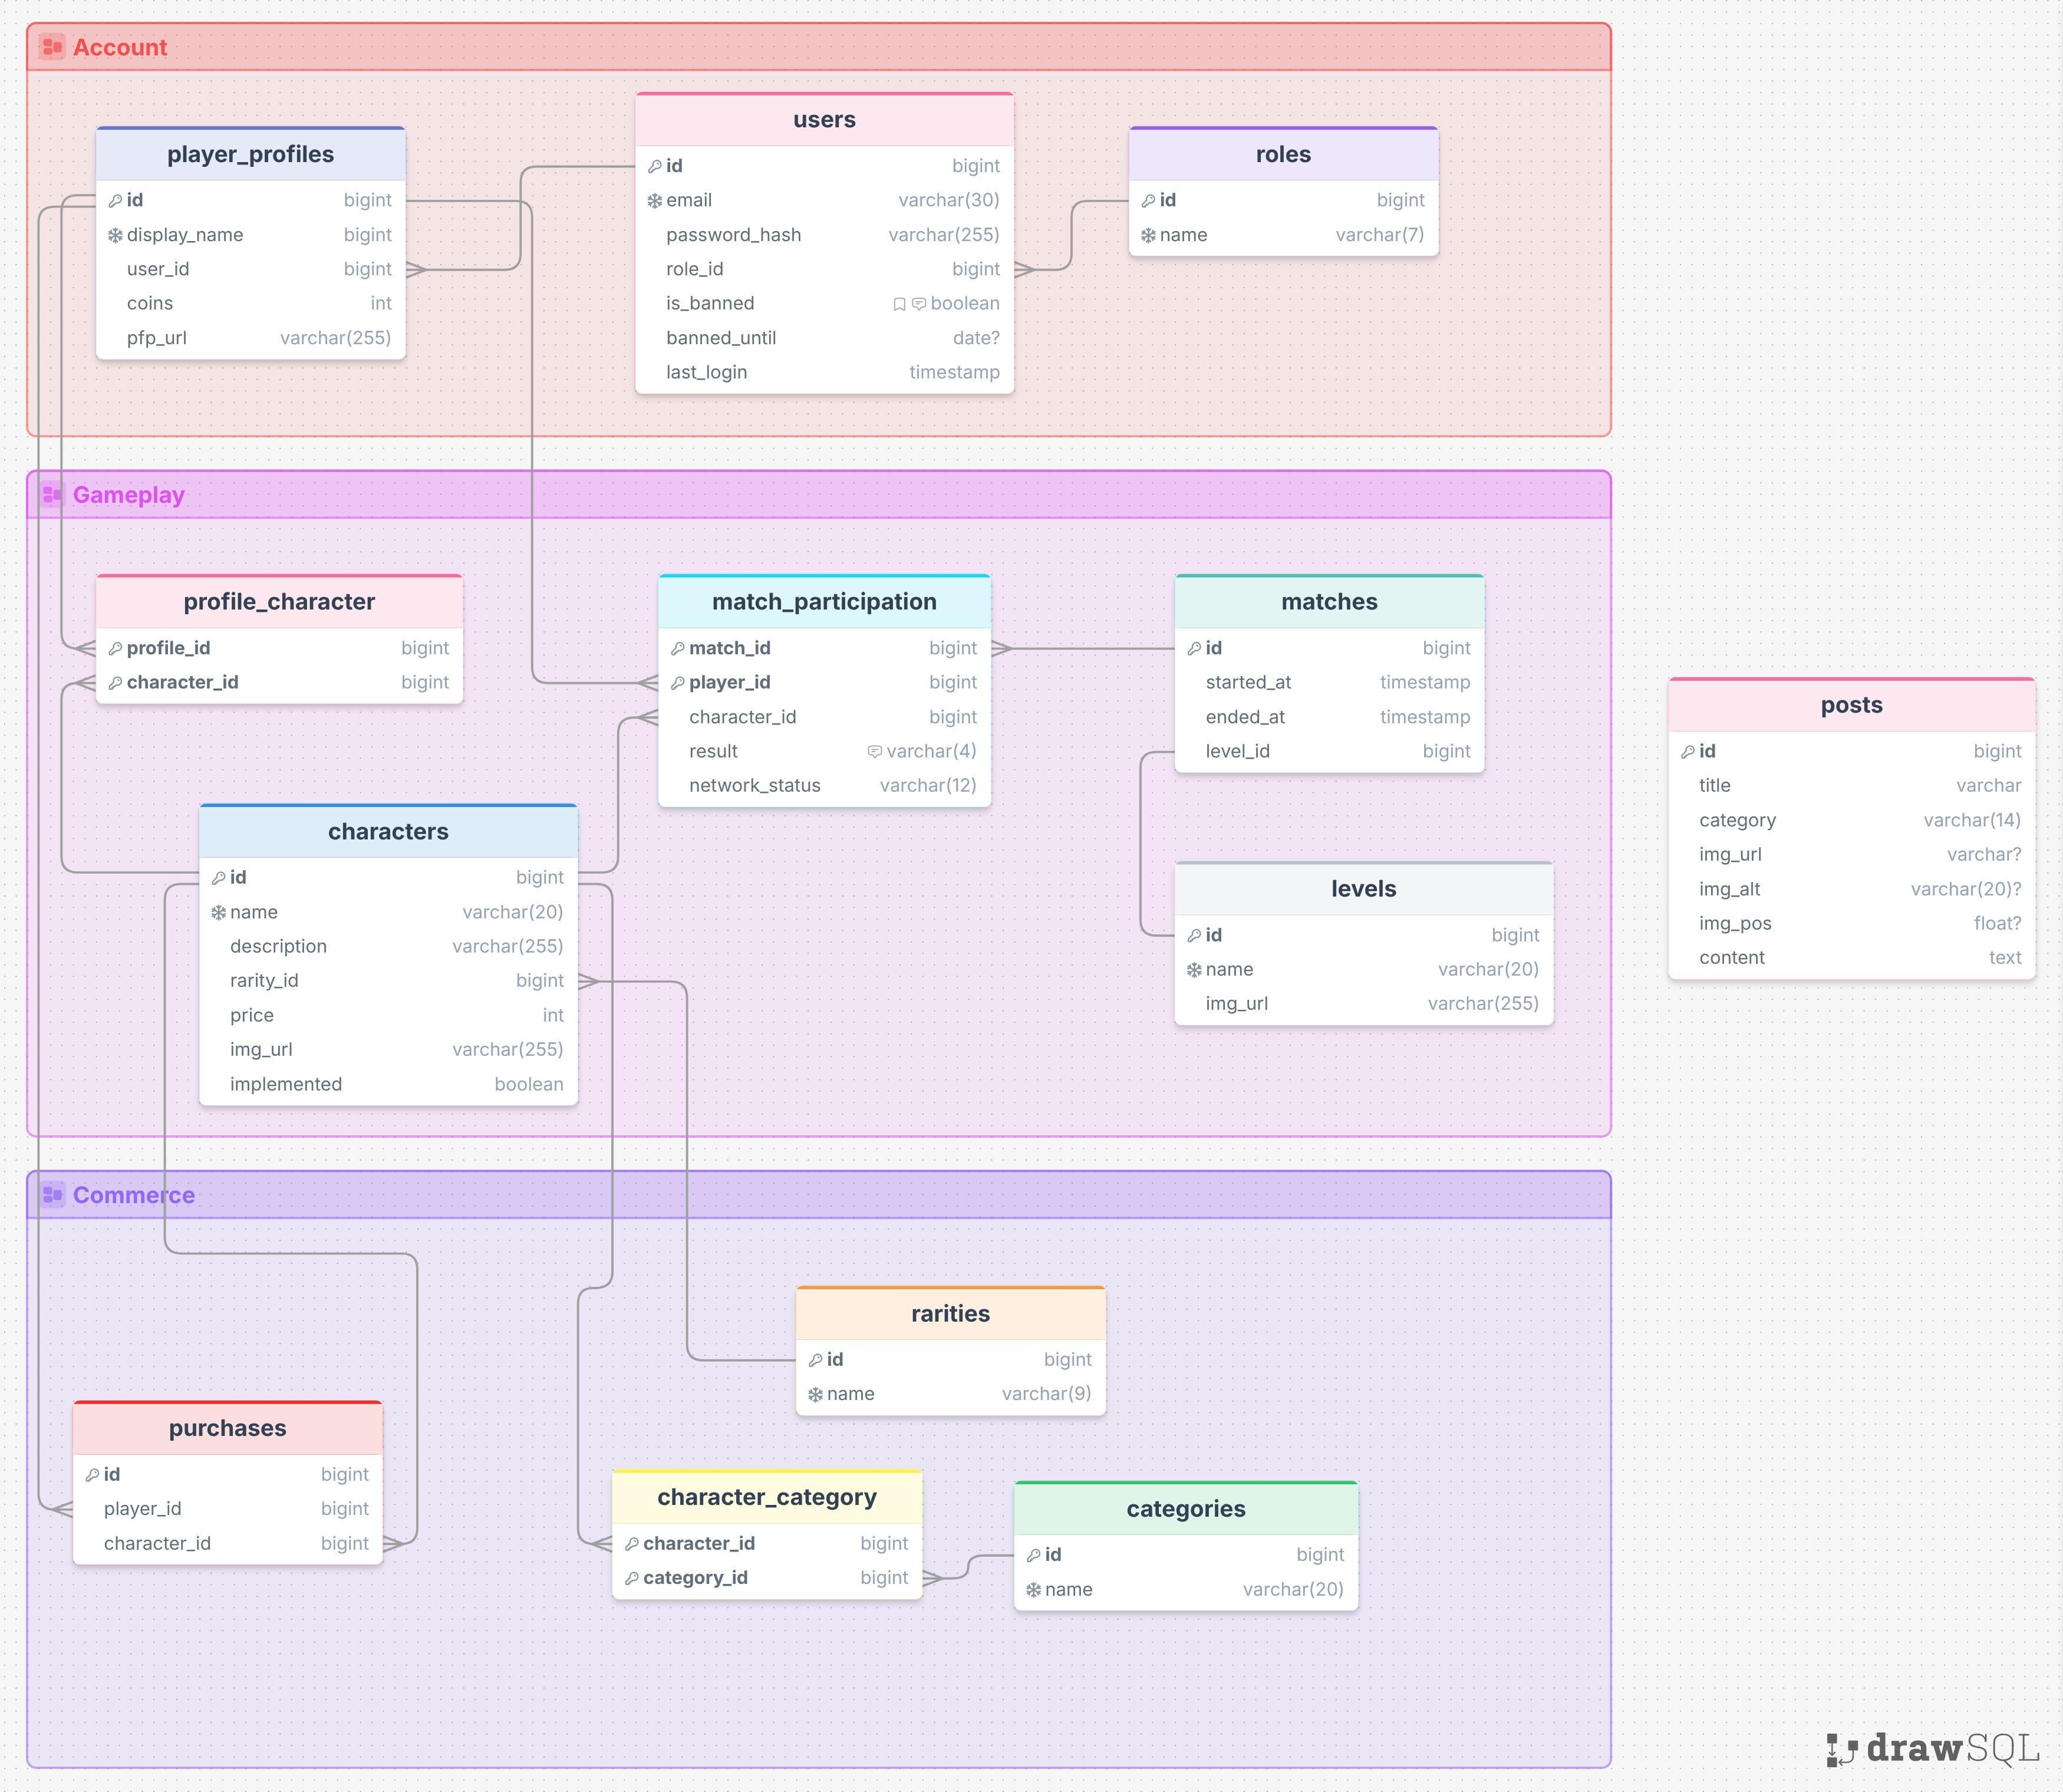
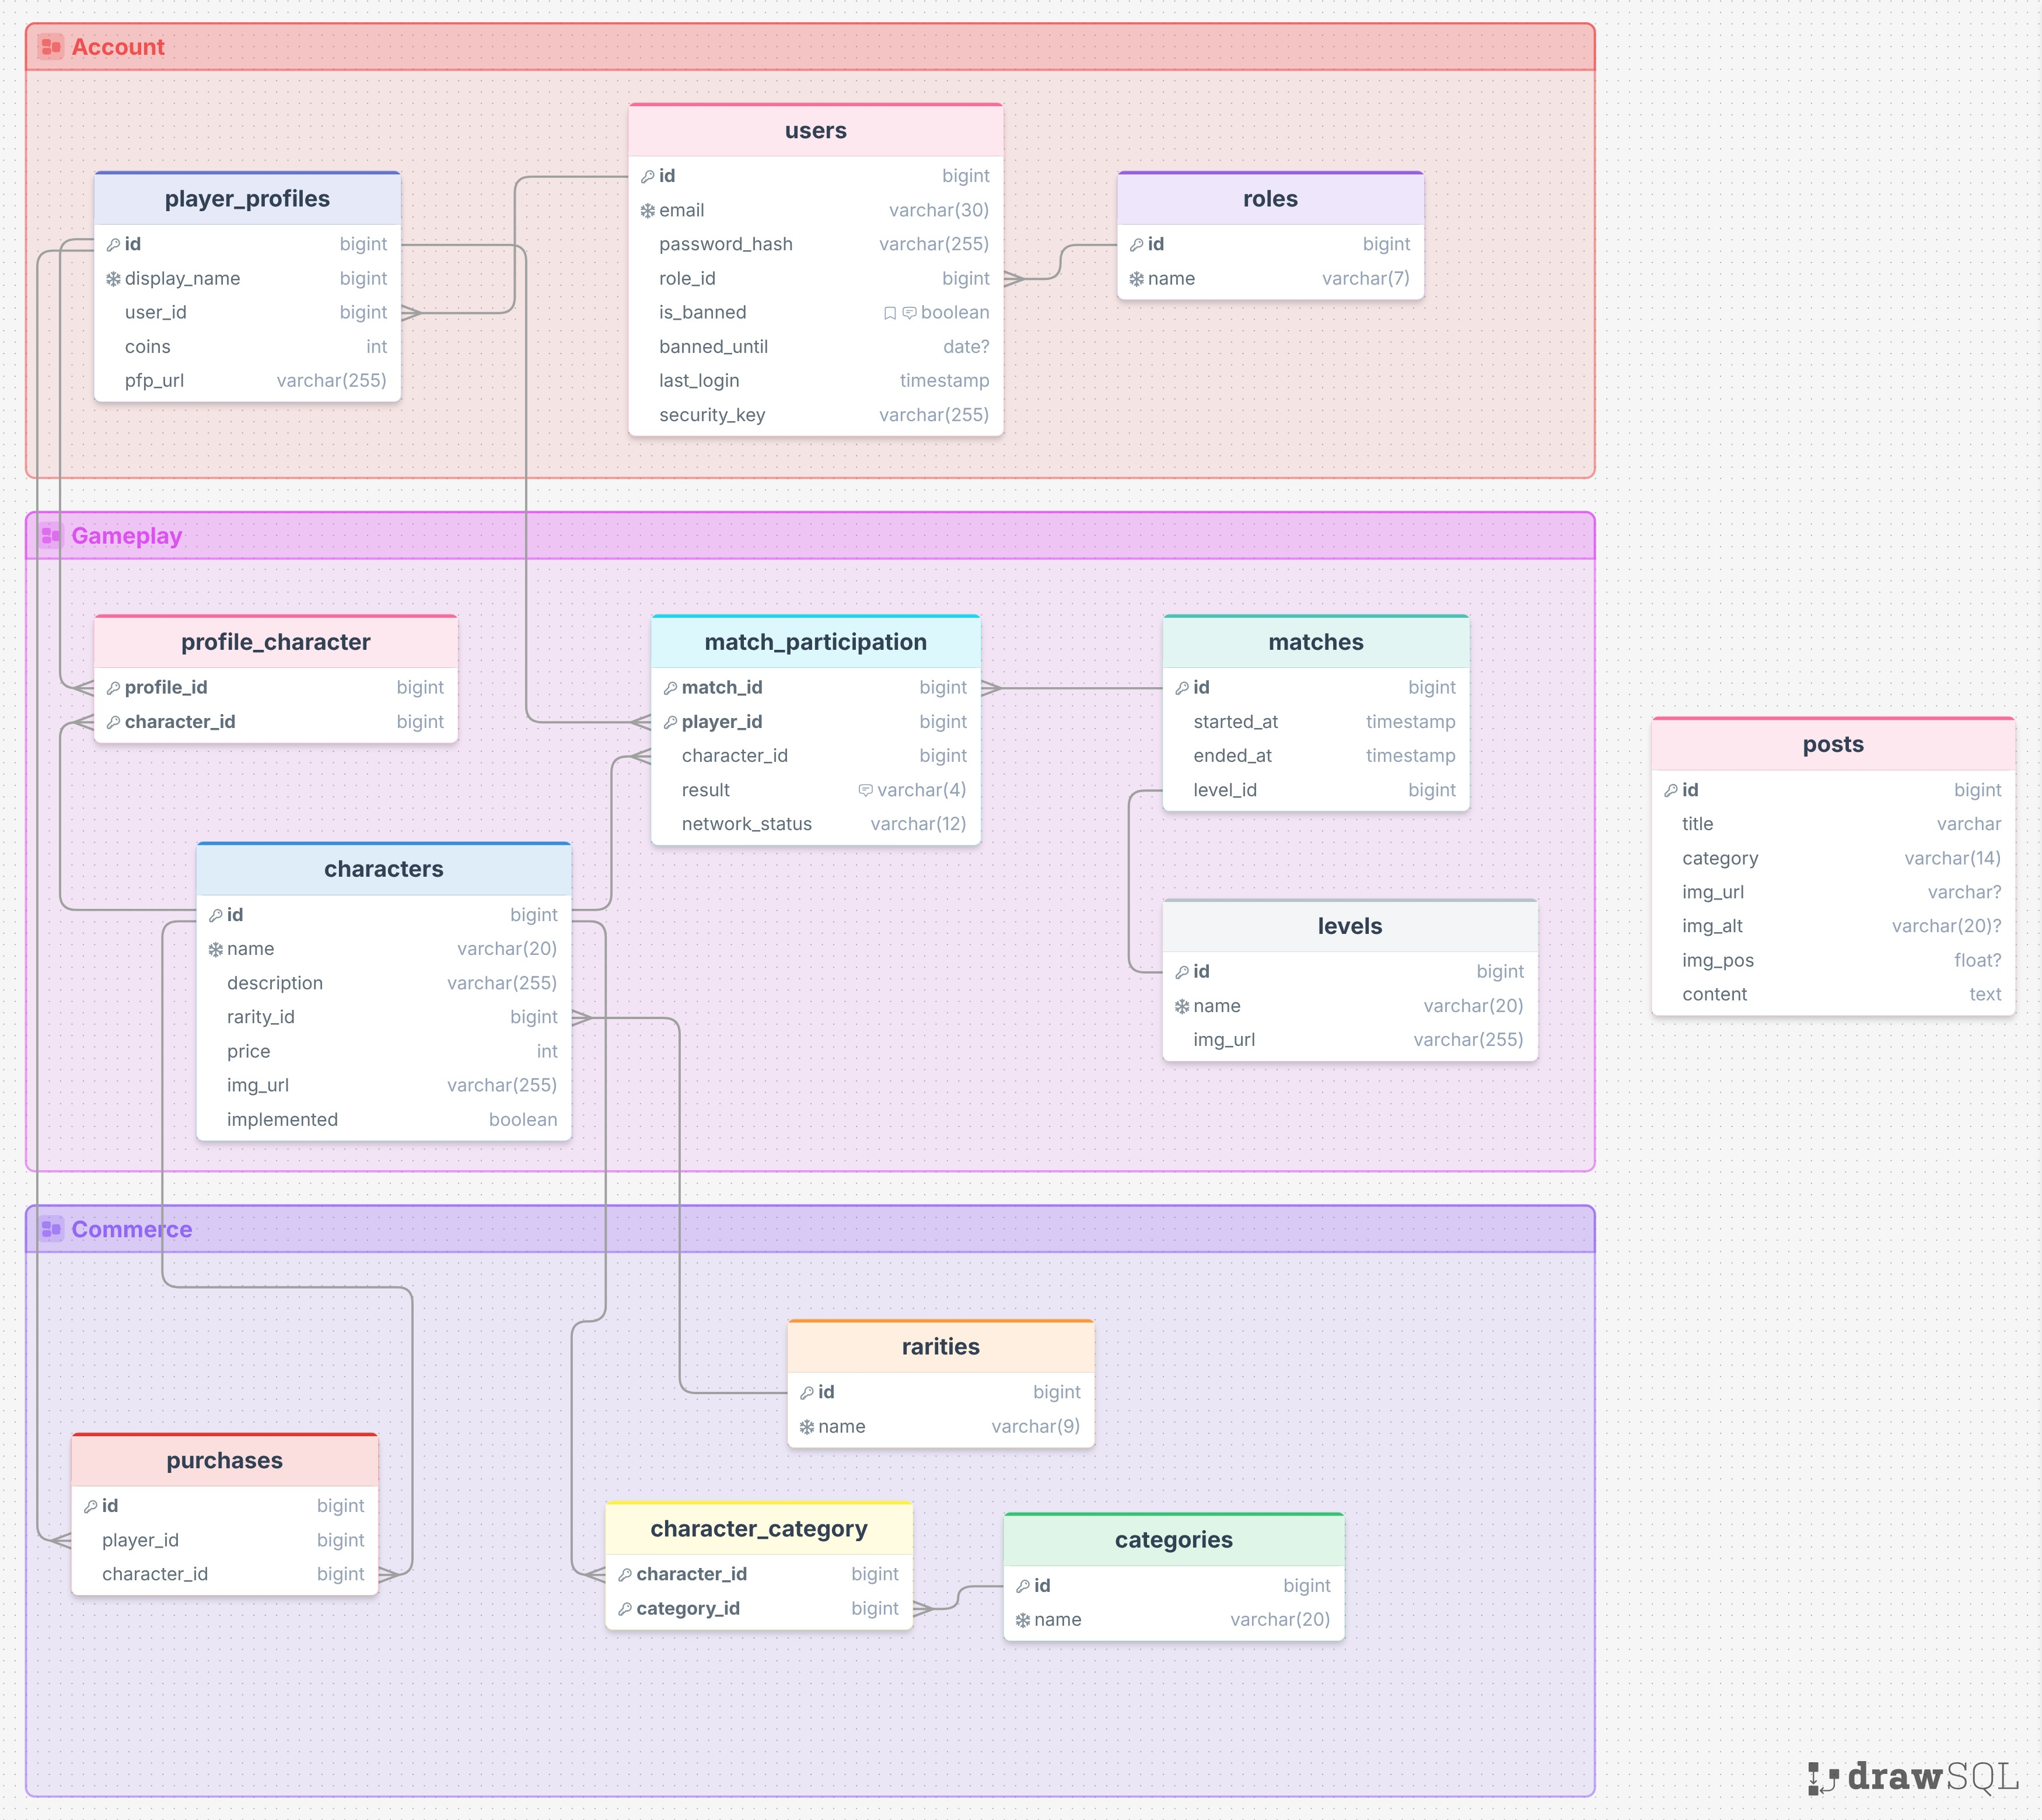
password reset implemented

diff --git a/internal/services/authn_service.go b/internal/services/authn_service.go
@@ -6,6 +6,7 @@ import (
 	"os"
 	"smaash-web/internal/models"
 	"smaash-web/internal/repository"
+	"smaash-web/internal/utils"
 	"time"
 
 	"github.com/golang-jwt/jwt/v5"
@@ -13,8 +14,9 @@ import (
 )
 
 type Authentication interface {
-	SignUp(context.Context, *models.User) error
+	SignUp(context.Context, *models.User) (*string, error)
 	Login(context.Context, *models.User) (*string, *models.User, error)
+	ChangePassword(context.Context, uint, string, string) error
 }
 
 type AuthenticationService struct {
@@ -26,21 +28,30 @@ func NewAuthenticationService(userRepo repository.UserRepository) Authentication
 }
 
 var (
-	ErrPasswordComparisonFailed = errors.New("Password incorrect")
-	ErrUserBanned               = errors.New("User is banned")
+	ErrPasswordIncorrect  = errors.New("Password incorrect")
+	ErrUserBanned         = errors.New("User is banned")
+	ErrSecurityKeyInvalid = errors.New("Provided security key is invalid")
 )
 
-func (a AuthenticationService) SignUp(c context.Context, u *models.User) error {
+func (a AuthenticationService) SignUp(c context.Context, u *models.User) (*string, error) {
 	hash, err := bcrypt.GenerateFromPassword([]byte(u.PasswordHash), 10)
 	if err != nil {
-		return err
+		return nil, err
 	}
+
+	rawKey := utils.GenerateSecurityKey()
+	hashedKey, err := bcrypt.GenerateFromPassword([]byte(rawKey), 10)
+	if err != nil {
+		return nil, err
+	}
+
 	u.PasswordHash = string(hash)
+	u.SecurityKey = string(hashedKey)
 	err = a.userRepo.Create(c, u)
 	if err != nil {
-		return err
+		return nil, err
 	}
-	return nil
+	return &rawKey, nil
 }
 
 func (a AuthenticationService) Login(c context.Context, u *models.User) (*string, *models.User, error) {
@@ -65,7 +76,7 @@ func (a AuthenticationService) Login(c context.Context, u *models.User) (*string
 
 	err = bcrypt.CompareHashAndPassword([]byte(user.PasswordHash), []byte(u.PasswordHash))
 	if err != nil {
-		return nil, nil, ErrPasswordComparisonFailed
+		return nil, nil, ErrPasswordIncorrect
 	}
 
 	token := jwt.NewWithClaims(jwt.SigningMethodHS256, jwt.MapClaims{
@@ -88,4 +99,27 @@ func (a AuthenticationService) Login(c context.Context, u *models.User) (*string
 	}
 
 	return &tokenString, &user, nil
+}
+
+func (a AuthenticationService) ChangePassword(c context.Context, userID uint, newPass string, securityKey string) error {
+	user, err := a.userRepo.ReadByID(c, userID)
+	if err != nil {
+		return err
+	}
+
+	if err := bcrypt.CompareHashAndPassword([]byte(user.SecurityKey), []byte(securityKey)); err != nil {
+		return ErrSecurityKeyInvalid
+	}
+
+	newHash, err := bcrypt.GenerateFromPassword([]byte(newPass), 10)
+	if err != nil {
+		return err
+	}
+
+	user.PasswordHash = string(newHash)
+	if err := a.userRepo.Update(c, user); err != nil {
+		return err
+	}
+
+	return nil
 }

diff --git a/internal/controllers/authn_controller.go b/internal/controllers/authn_controller.go
@@ -4,6 +4,7 @@ import (
 	"errors"
 	"net/http"
 	dtos "smaash-web/internal/DTOs"
+	"smaash-web/internal/middlewares"
 	"smaash-web/internal/repository"
 	"smaash-web/internal/services"
 
@@ -47,8 +48,9 @@ func (a AuthnController) SignUp(c *gin.Context) {
 		c.JSON(http.StatusInternalServerError, dtos.NewErrResp(err.Error(), path))
 	}
 
-	if err := a.authService.SignUp(c.Request.Context(), newUser); err != nil {
-		if errors.Is(err, gorm.ErrDuplicatedKey) { // gorm returns this error when a unique constraint is violated
+	securityKey, err := a.authService.SignUp(c.Request.Context(), newUser)
+	if err != nil {
+		if errors.Is(err, gorm.ErrDuplicatedKey) {
 			c.JSON(http.StatusConflict, dtos.NewErrResp("User already exists", path))
 			return
 		}
@@ -56,7 +58,7 @@ func (a AuthnController) SignUp(c *gin.Context) {
 		return
 	}
 
-	c.JSON(http.StatusCreated, dtos.UserToDTO(*newUser))
+	c.JSON(http.StatusCreated, dtos.UserToSignupRespDTO(*newUser, *securityKey))
 }
 
 // @description Logs in a user
@@ -84,7 +86,7 @@ func (a AuthnController) Login(c *gin.Context) {
 		case errors.Is(err, gorm.ErrRecordNotFound):
 			c.JSON(http.StatusUnauthorized, dtos.NewErrResp("User doesn't exist", c.Request.URL.Path))
 			return
-		case errors.Is(err, services.ErrPasswordComparisonFailed):
+		case errors.Is(err, services.ErrPasswordIncorrect):
 			c.JSON(http.StatusUnauthorized, dtos.NewErrResp("Incorrect password", c.Request.URL.Path))
 			return
 		case errors.Is(err, services.ErrUserBanned):
@@ -137,9 +139,41 @@ func (a AuthnController) Logout(c *gin.Context) {
 	c.Status(http.StatusNoContent)
 }
 
+func (a AuthnController) ChangePassword(c *gin.Context) {
+	path := c.Request.URL.Path
+	id, _ := c.Get("id")
+
+	var body dtos.PasswordChangeDTO
+	if err := c.ShouldBindJSON(&body); err != nil {
+		c.JSON(http.StatusUnprocessableEntity, dtos.NewErrResp(err.Error(), path))
+		return
+	}
+
+	if id.(uint) != body.ID {
+		c.JSON(http.StatusBadRequest, dtos.NewErrResp("ID from url doesn't match ID from request body", path))
+		return
+	}
+
+	if err := a.authService.ChangePassword(c.Request.Context(), id.(uint), body.NewPassword, body.SecurityKey); err != nil {
+		if errors.Is(err, services.ErrSecurityKeyInvalid) {
+			c.JSON(http.StatusUnauthorized, dtos.NewErrResp(err.Error(), path))
+			return
+		}
+		if errors.Is(err, gorm.ErrRecordNotFound) {
+			c.JSON(http.StatusNotFound, dtos.NewErrResp("Profile with given id not found", path))
+			return
+		}
+		c.JSON(http.StatusInternalServerError, dtos.NewErrResp(err.Error(), path))
+		return
+	}
+
+	c.Status(http.StatusNoContent)
+}
+
 func (a AuthnController) MountRoutes(apiGroup *gin.RouterGroup) {
 	auth := apiGroup.Group("/auth")
 	auth.POST("/signup", a.SignUp)
 	auth.POST("/login", a.Login)
 	auth.POST("/logout", a.Logout)
+	auth.PUT("/change-password", middlewares.Authorize(middlewares.ANY), a.ChangePassword)
 }

diff --git a/internal/DTOs/userDTOs.go b/internal/DTOs/userDTOs.go
@@ -42,6 +42,18 @@ type UserPromoteDTO struct {
 	TargetRole string `json:"target_role" binding:"required,oneof=admin support"`
 }
 
+type UserSignupRespDTO struct {
+	ID          uint   `json:"id"`
+	Email       string `json:"email"`
+	SecurityKey string `json:"security_key"`
+}
+
+type PasswordChangeDTO struct {
+	ID          uint   `json:"id"`
+	NewPassword string `json:"new_password"`
+	SecurityKey string `json:"security_key"`
+}
+
 func UserToDTO(user models.User) UserReadDTO {
 	dto := UserReadDTO{
 		ID:        user.ID,
@@ -83,5 +95,13 @@ func UpdateDTOToUser(dto UserUpdateDTO) models.User {
 		Model:  gorm.Model{ID: dto.ID},
 		Email:  dto.Email,
 		RoleID: dto.RoleID,
+	}
+}
+
+func UserToSignupRespDTO(user models.User, rawKey string) UserSignupRespDTO {
+	return UserSignupRespDTO{
+		ID:          user.ID,
+		Email:       user.Email,
+		SecurityKey: rawKey,
 	}
 }

diff --git a/internal/services/authn_service_test.go b/internal/services/authn_service_test.go
@@ -14,6 +14,7 @@ import (
 	"github.com/glebarez/sqlite"
 	"github.com/golang-jwt/jwt/v5"
 	"github.com/stretchr/testify/assert"
+	"golang.org/x/crypto/bcrypt"
 	"gorm.io/gorm"
 	"gorm.io/gorm/logger"
 )
@@ -36,13 +37,17 @@ func TestSignup(t *testing.T) {
 	database.AutoMigrate(mockDBConn)
 	pass := "test1234"
 	newUser := &models.User{Email: "[email redacted]", PasswordHash: pass, RoleID: 2}
-	err := authService.SignUp(context.Background(), newUser)
+	key, err := authService.SignUp(context.Background(), newUser)
 
 	assert.Nil(t, err, "Signup shouldn't return an error")
 	assert.NotEqual(t, newUser.ID, uint(0), "Signed up user should have a non-zero id")
 	assert.NotEqual(t, pass, newUser.PasswordHash, "Signed up user should have a hashed password")
 
-	err = authService.SignUp(context.Background(), newUser)
+	err = bcrypt.CompareHashAndPassword([]byte(newUser.SecurityKey), []byte(*key))
+
+	assert.Nil(t, err, "Signed up user should have a correctly encrypted security key")
+
+	_, err = authService.SignUp(context.Background(), newUser)
 	assert.NotNil(t, err, "Signing up existing user should return an error")
 }
 
@@ -60,7 +65,7 @@ func TestLogin(t *testing.T) {
 
 	correctPass := "password1234"
 	correctUser := &models.User{Email: "[email redacted]", PasswordHash: correctPass, RoleID: 2}
-	err = authService.SignUp(context.Background(), correctUser)
+	_, err = authService.SignUp(context.Background(), correctUser)
 
 	// Wrong password
 	token, user, err = authService.Login(context.Background(), &models.User{Email: correctUser.Email, PasswordHash: "wrongpass1234"})

diff --git a/internal/utils/utils.go b/internal/utils/utils.go
@@ -1,6 +1,8 @@
 package utils
 
 import (
+	"crypto/rand"
+	"encoding/base64"
 	"errors"
 	"mime/multipart"
 	"os"
@@ -65,4 +67,10 @@ func SaveFileToDisc(c *gin.Context, file *multipart.FileHeader, kind FileUploadK
 	}
 
 	return &uri, nil
+}
+
+func GenerateSecurityKey() string {
+	keyBuffer := make([]byte, 32)
+	rand.Read(keyBuffer)
+	return base64.StdEncoding.EncodeToString(keyBuffer)
 }

diff --git a/internal/models/User.go b/internal/models/User.go
@@ -15,6 +15,7 @@ type User struct {
 	IsBanned       bool `gorm:"not null"`
 	BannedUntil    *time.Time
 	LastLogin      time.Time `gorm:"not null"`
+	SecurityKey    string    `gorm:"not null"`
 	PlayerProfiles []PlayerProfile
 }
 